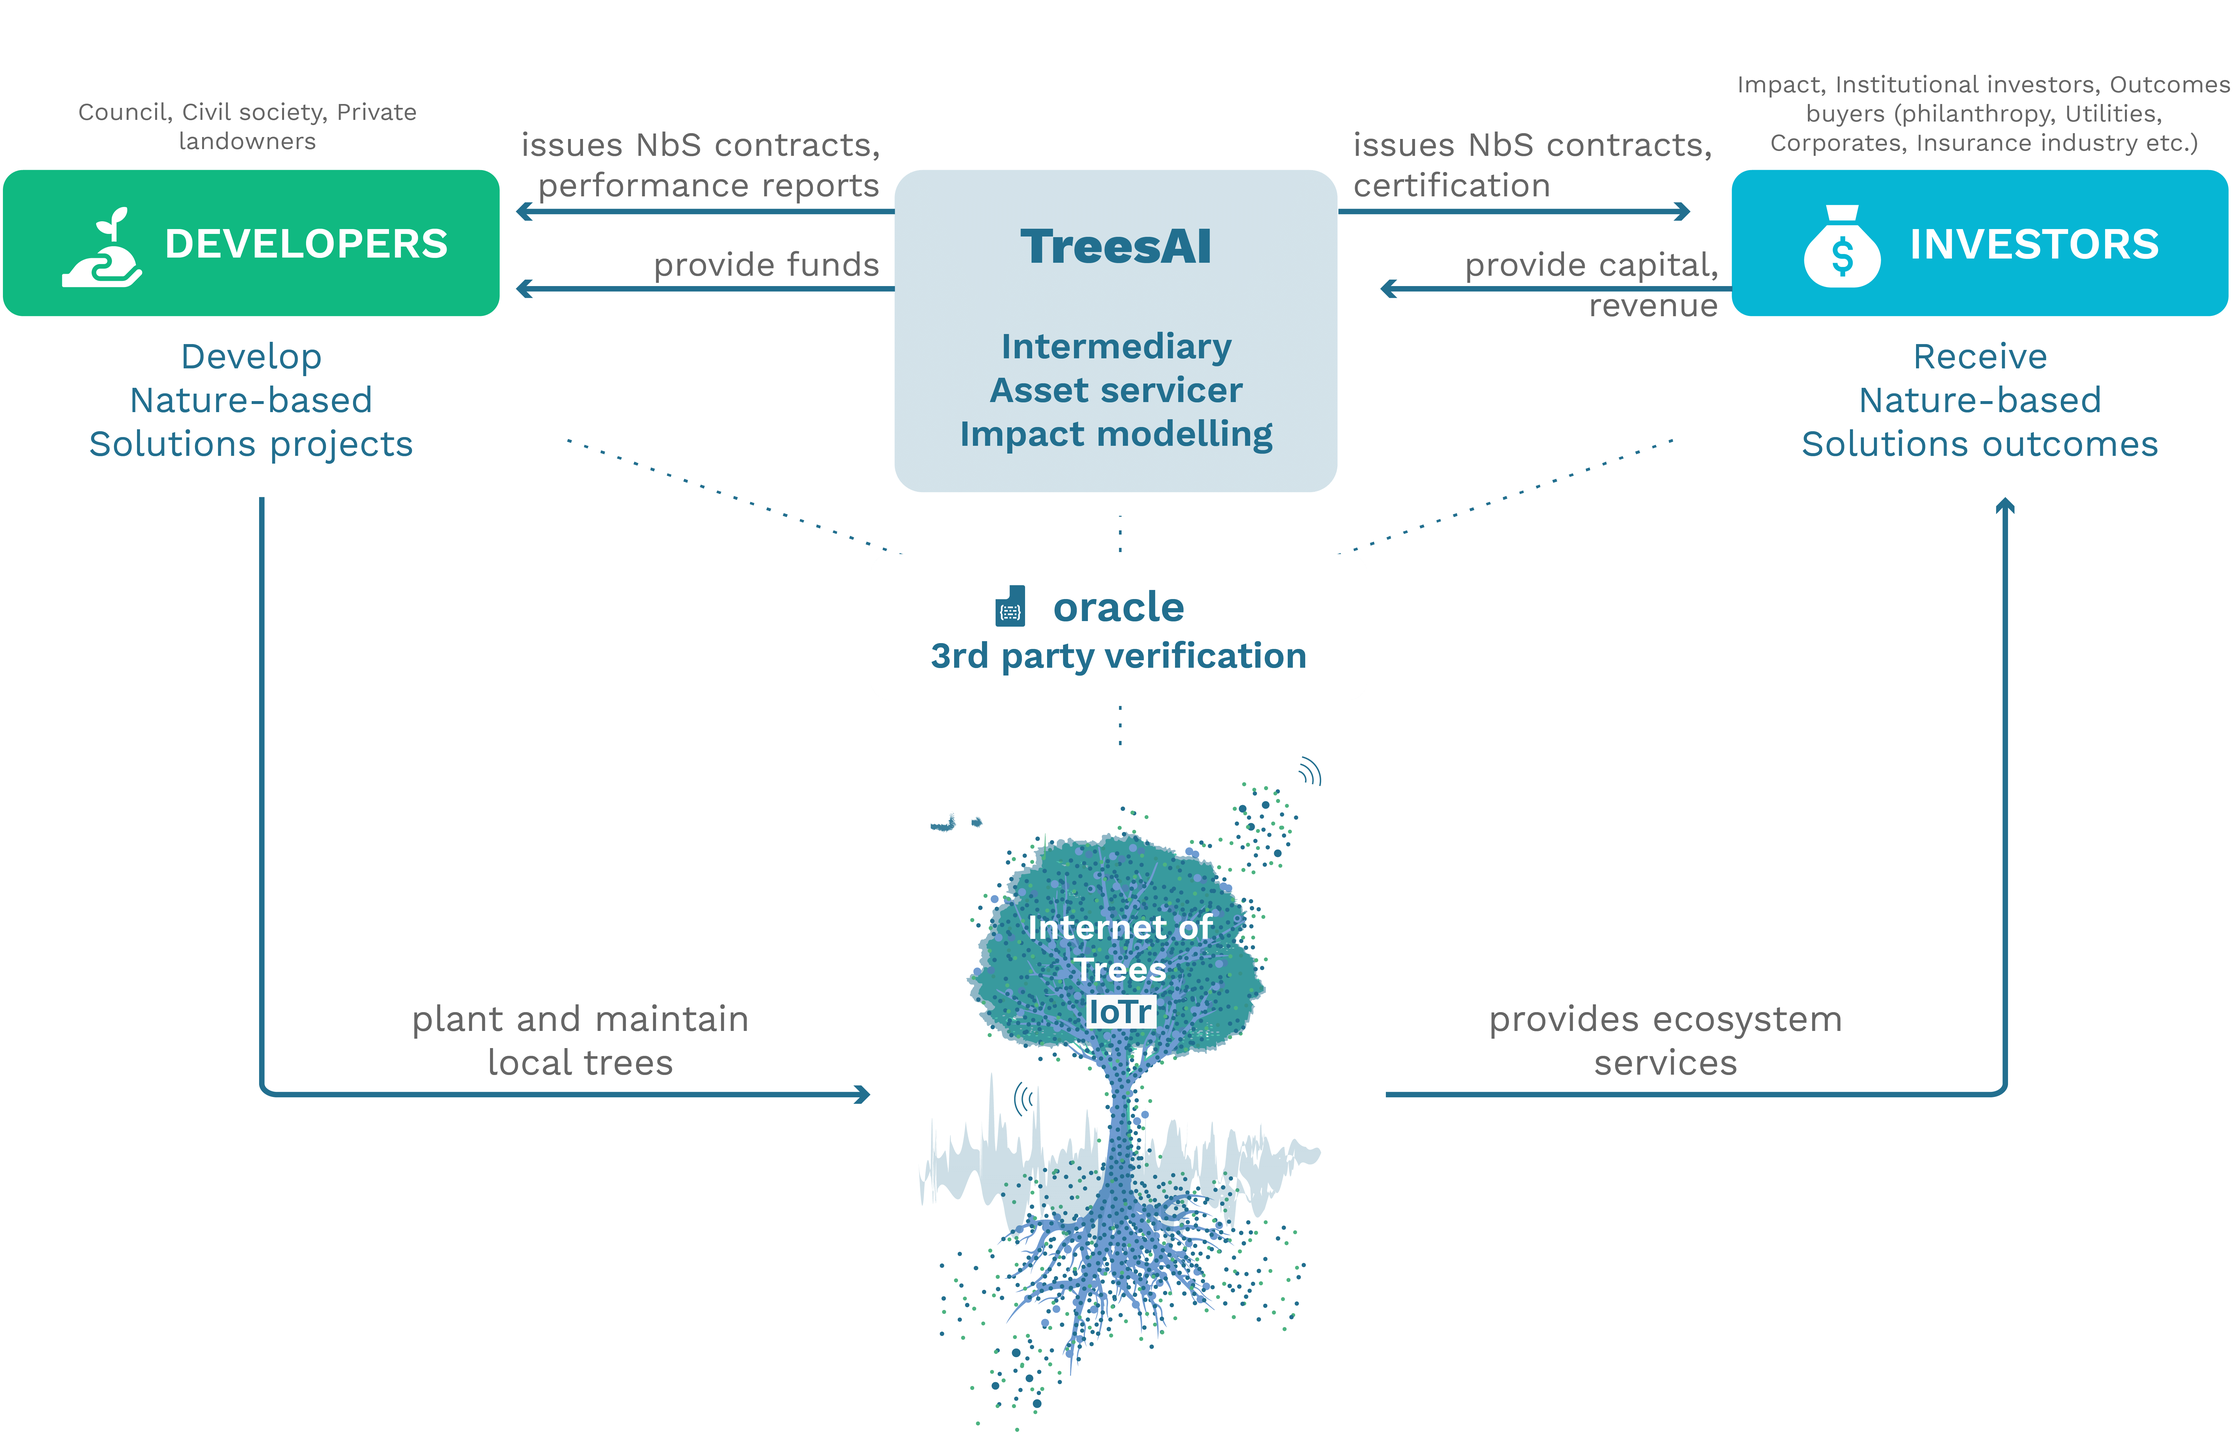
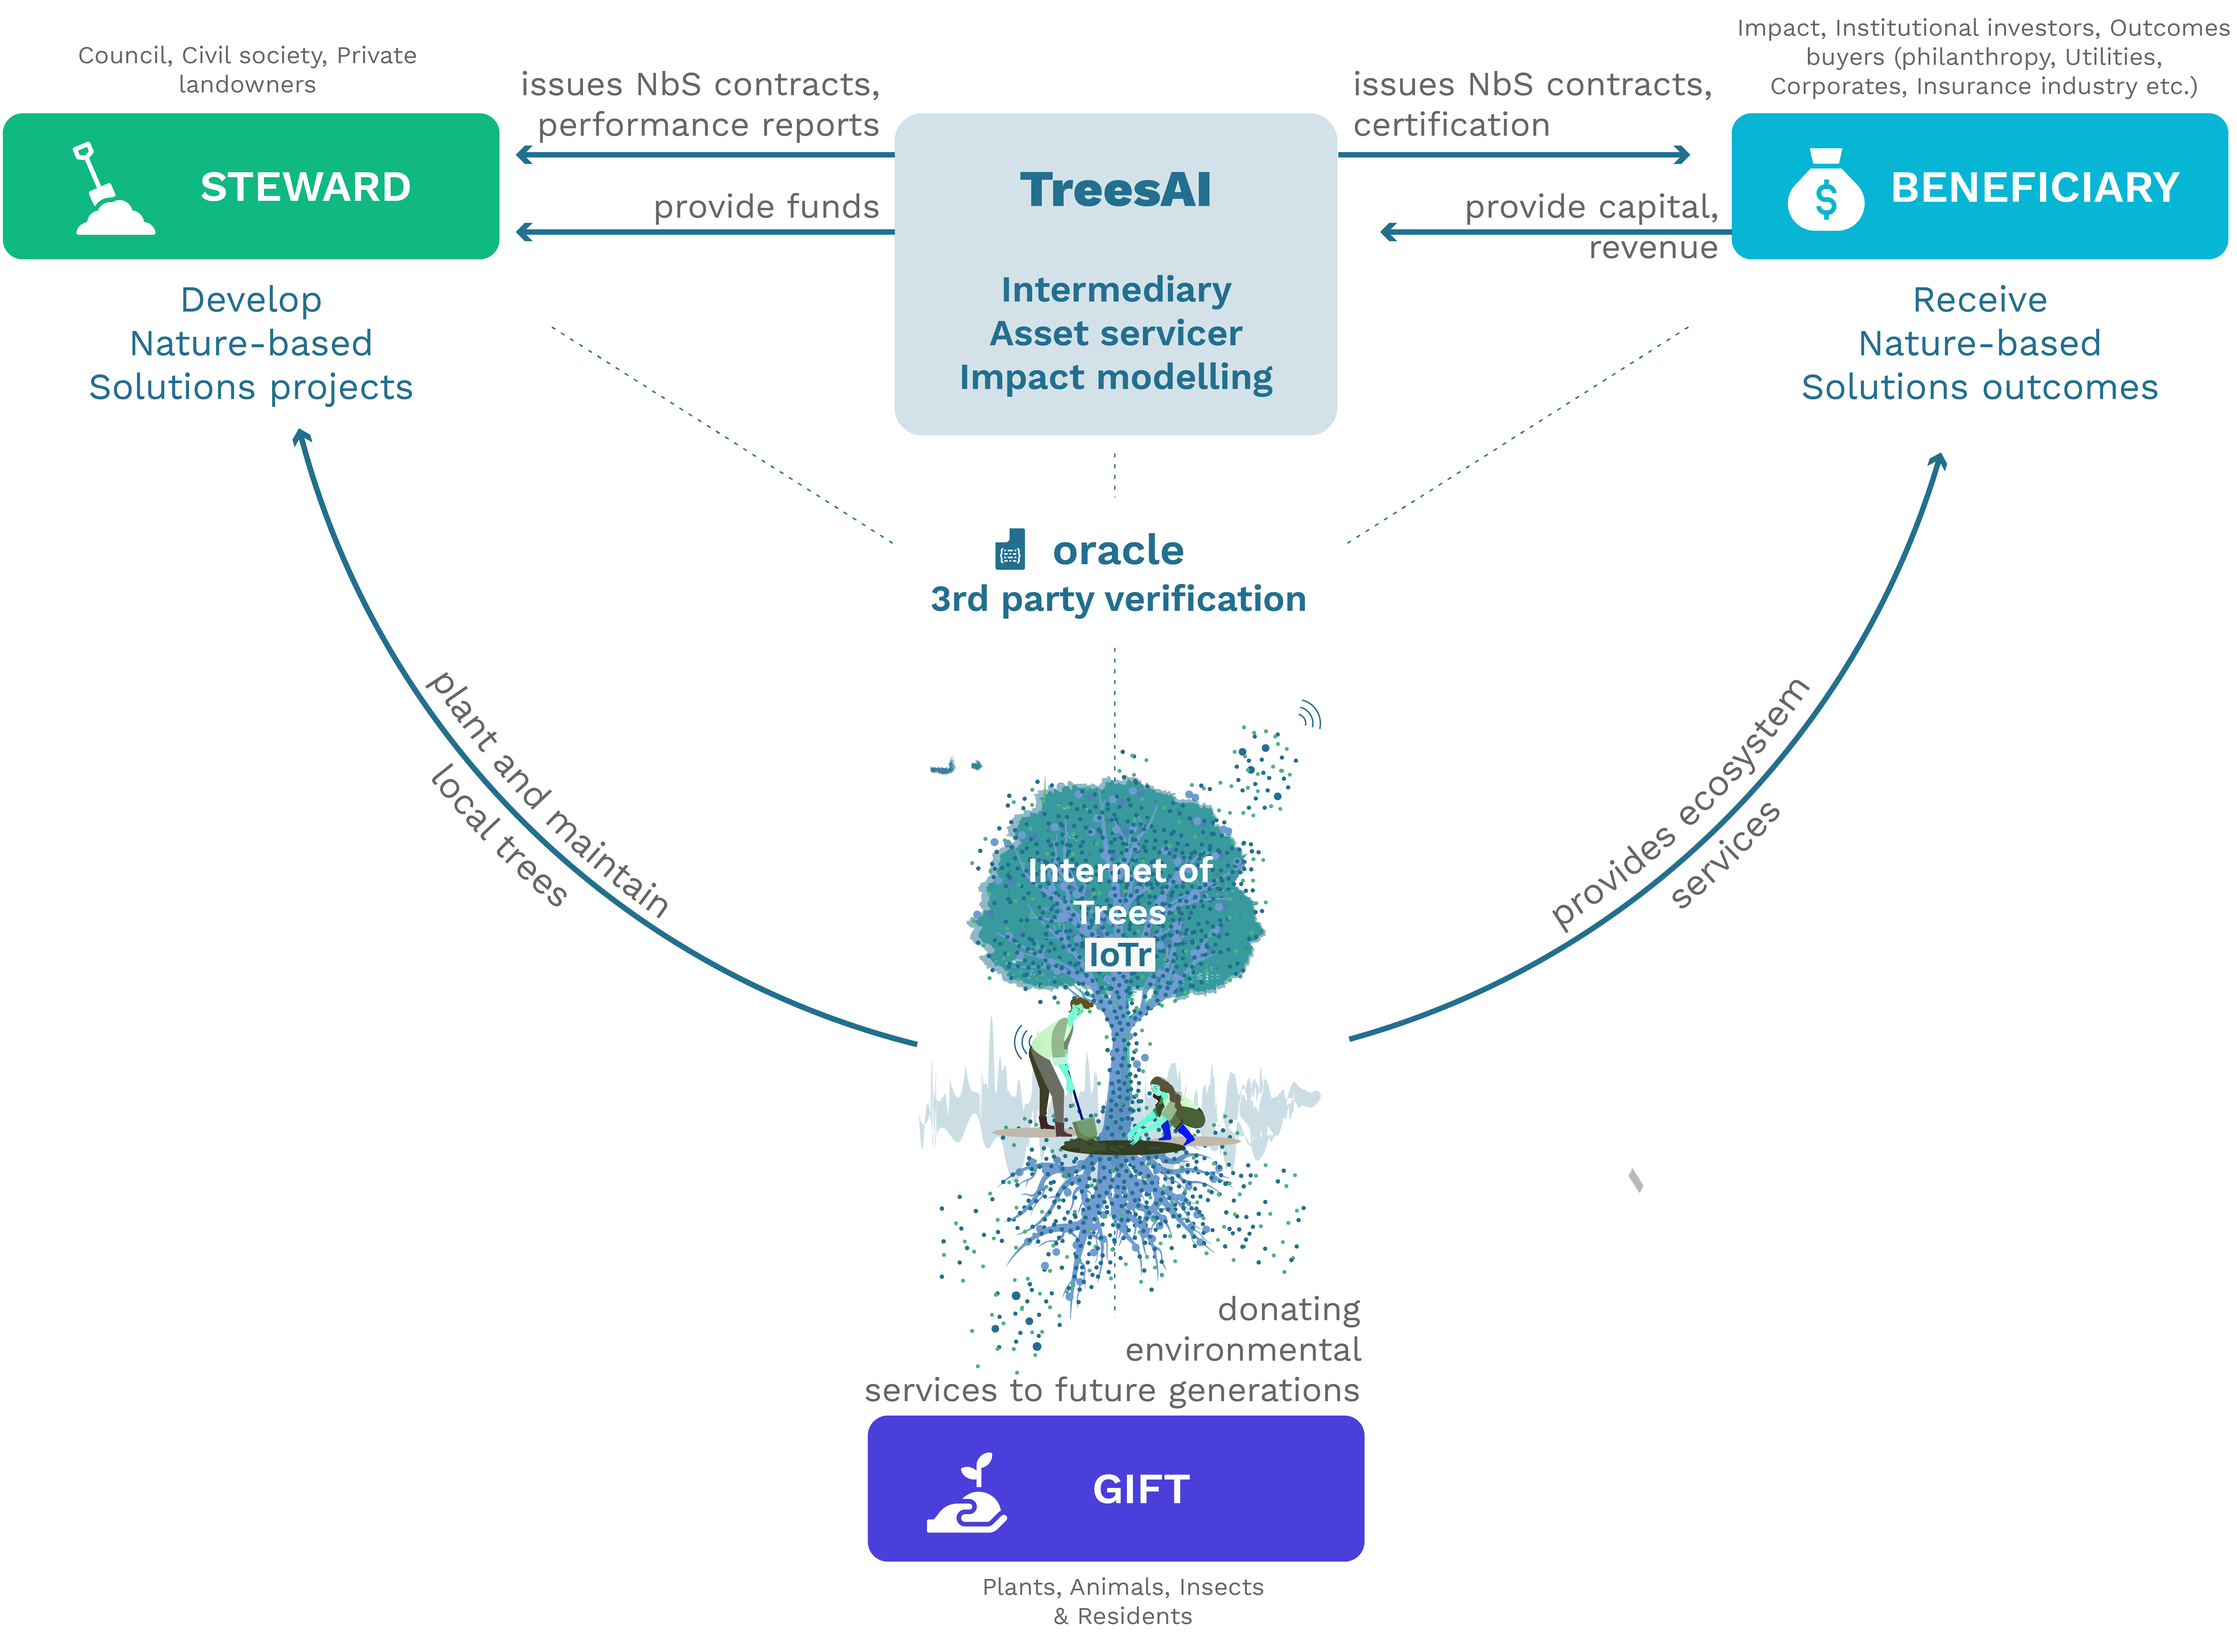
Remove link to Synopsis, update how it works diagram and copy change

diff --git a/src/components/Features.js b/src/components/Features.js
@@ -76,7 +76,7 @@ export default function Features() {
           <div className="max-w-7xl mx-auto px-4 sm:px-6 lg:px-8">
             <div className="lg:text-center">
               <h2 className="text-base text-primary font-semibold tracking-wide uppercase">
-                FOR DEVELOPERS
+                FOR STEWARDS
               </h2>
               <p className="font-grotesk mt-2 text-3xl text-gray-900 sm:text-4xl">
                 Fund your Nature-based Solutions projects
@@ -111,7 +111,7 @@ export default function Features() {
           <div className="max-w-7xl mx-auto px-4 sm:px-6 lg:px-8">
             <div className="lg:text-center">
               <h2 className="text-base font-semibold tracking-wide uppercase text-blue">
-                FOR INVESTORS
+                FOR BENEFICIARIES
               </h2>
               <p className="font-grotesk mt-2 text-3xl text-gray-900 sm:text-4xl">
                 Invest in Nature to reduce your climate risks

diff --git a/src/components/Pilot.js b/src/components/Pilot.js
@@ -33,16 +33,8 @@ export default function Pilot() {
               </h2>
               <p className="text-lg text-green1">
                 TreesAI is partnering with Glasgow City Council to launch its
-                first pilot, helping to meet the city’s climate targets.
+                first pilot, helping to meet the city’s climate targets. We will share more information very soon.
               </p>
-              <a
-                className="block w-full py-3 px-5 text-center bg-white border border-transparent rounded-md shadow-md text-base font-medium text-primary hover:text-green2 sm:inline-block sm:w-auto"
-                href="assets/01.07.21_TreesAI in Glasgow Synopsis.pdf"
-                target="_blank"
-                rel="noreferrer noopener"
-              >
-                Learn more
-              </a>
             </div>
           </div>
         </div>
